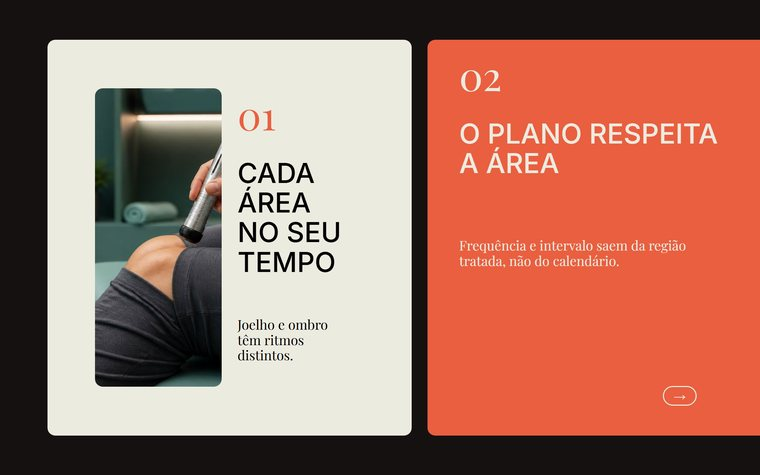
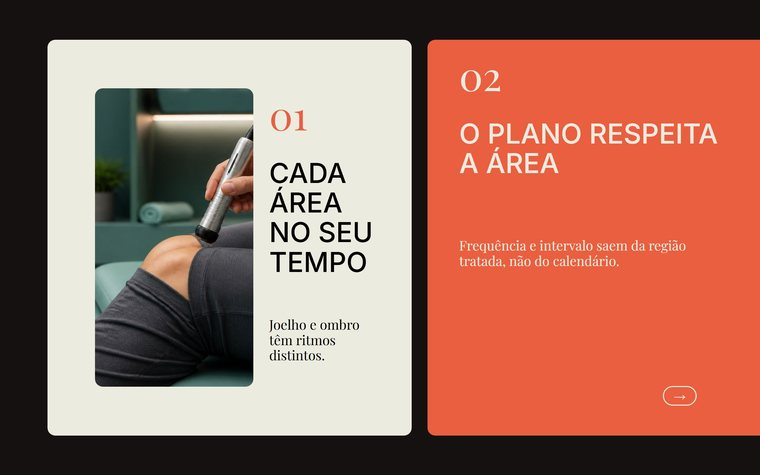
editorial-cards-continuos: piso de 30% de area para foto no cartao
Gustavo notou que as fotos saiam pequenas demais e sugeriu um minimo de
30-40%. Medindo os proprios exemplares do pack: 11%, 18% e 26% de area — o de
foto no topo tinha 15% de ALTURA, a faixa fina que ele viu.

Gate novo com piso de 30%, medido por AREA e nao por altura: assim a regra
serve tanto a foto larga (topo/rodape) quanto a vertical (retrato), que tem
75% de altura mas so 43% de largura.

Ajustar os tres exemplares expos que o cartao e apertado. Calculei o orcamento
em vez de continuar tentando: foto a 30% de area = 433px, sobram 692px, e
numero + headline + apoio + margens custam 666px. Cabe, sem folga — por isso
nas variacoes de foto grande o apoio virou de uma linha so.

data-gap estendido a texto: celulas de grid adjacentes se encostam (uma termina
onde a outra comeca) e o gate de folga acusa. E a margem da foto voltou a 26px:
16px conflitava com os 24px que o gate de borda exige — dois numeros do mesmo
sistema precisam concordar.

Changed region(s): [[0.1211, 0.1768, 0.5145, 0.8253], [0.2118, 0.7958, 0.2421, 0.8253]]

diff --git a/packs/editorial-cards-continuos/exemplos/ref-miolo-cartao-com-foto.html b/packs/editorial-cards-continuos/exemplos/ref-miolo-cartao-com-foto.html
@@ -23,19 +23,17 @@
          serifa fina sobre foto some, e a foto tem raio próprio. -->
     <div class="ds-card" data-el-id="f1" data-half-left data-layer style="grid-area: 2 / 3 / 12 / 14"></div>
     <img class="ds-photo" data-el-id="f1p" data-gap data-half-left data-static data-layer data-round
-         data-image-type="generated" src="foto-detalhe.jpg" style="grid-area: 4 / 4 / 6 / 12">
-    <span class="ds-number" data-el-id="f1n" data-half-left data-static data-layer data-face="serif"
+         data-image-type="generated" src="foto-detalhe.jpg" style="grid-area: 4 / 4 / 9 / 12">
+    <span class="ds-number" data-el-id="f1n" data-gap data-half-left data-static data-layer data-face="serif"
           data-size="lg" data-corner data-inset="top"
           style="grid-area: 2 / 4 / 3 / 8">01</span>
-    <h2 class="ds-headline" data-weight="medium" data-el-id="f1h" data-half-left data-layer data-template-element
+    <h2 class="ds-headline" data-weight="medium" data-el-id="f1h" data-gap data-half-left data-layer data-template-element
         data-te-description="tese do cartão" data-te-min-chars="12" data-te-max-chars="30"
-        style="grid-area: 6 / 4 / 8 / 12">A dose se lê na pele</h2>
-    <p class="ds-body" data-el-id="f1b" data-half-left data-layer data-face="serif"
+        style="grid-area: 9 / 4 / 11 / 12">A dose se lê na pele</h2>
+    <p class="ds-body" data-el-id="f1b" data-gap data-half-left data-layer data-face="serif"
        data-template-element data-te-description="apoio"
        data-te-min-chars="30" data-te-max-chars="110"
-       style="grid-area: 9 / 4 / 11 / 12">O que a área responde na sessão orienta o ajuste da seguinte.</p>
-    <a class="ds-stamp" data-el-id="f1s" data-half-left data-static data-layer data-glyph
-       style="grid-area: 11 / 8 / 12 / 12">&#8594;</a>
+       style="grid-area: 11 / 4 / 12 / 12">A área responde; o ajuste vem daí.</p>
 
     <!-- CARTÃO seguinte, só texto: a variação alterna, não se repete. -->
     <div class="ds-card" data-el-id="f2" data-half-left data-layer data-variable="primary"

diff --git a/packs/editorial-cards-continuos/exemplos/ref-miolo-foto-embaixo.html b/packs/editorial-cards-continuos/exemplos/ref-miolo-foto-embaixo.html
@@ -21,17 +21,17 @@
   <div class="fita-layer" data-split-ok>
     <!-- CARTÃO: número (2), headline (3-5), apoio (6-7), foto fecha (8-12). -->
     <div class="ds-card" data-el-id="b1" data-half-left data-layer style="grid-area: 2 / 3 / 12 / 14"></div>
-    <span class="ds-number" data-el-id="b1n" data-half-left data-static data-layer data-face="serif"
+    <span class="ds-number" data-el-id="b1n" data-gap data-half-left data-static data-layer data-face="serif"
           data-size="lg" data-corner data-inset="top" style="grid-area: 2 / 4 / 3 / 8">01</span>
-    <h2 class="ds-headline" data-weight="medium" data-el-id="b1h" data-half-left data-layer data-template-element
+    <h2 class="ds-headline" data-weight="medium" data-el-id="b1h" data-gap data-half-left data-layer data-template-element
         data-te-description="tese do cartão" data-te-min-chars="12" data-te-max-chars="30"
-        style="grid-area: 4 / 4 / 6 / 12">O resultado aparece no tecido</h2>
-    <p class="ds-body" data-el-id="b1b" data-half-left data-layer data-face="serif"
+        style="grid-area: 4 / 4 / 6 / 12">O tecido mostra</h2>
+    <p class="ds-body" data-el-id="b1b" data-gap data-half-left data-layer data-face="serif"
        data-template-element data-te-description="apoio"
        data-te-min-chars="30" data-te-max-chars="110"
-       style="grid-area: 7 / 4 / 9 / 12">O que muda entre a primeira e a última sessão não é a sensação — é a resposta.</p>
+       style="grid-area: 6 / 4 / 7 / 12">Muda a resposta, não a sensação.</p>
     <img class="ds-photo" data-el-id="b1p" data-gap data-half-left data-static data-layer data-round
-         data-image-type="generated" src="foto-detalhe.jpg" style="grid-area: 9 / 4 / 12 / 12">
+         data-image-type="generated" src="foto-detalhe.jpg" style="grid-area: 7 / 4 / 12 / 12">
 
     <!-- CARTÃO seguinte volta ao registro de texto: variação alterna. -->
     <div class="ds-card" data-el-id="b2" data-half-left data-layer data-variable="primary"

diff --git a/packs/editorial-cards-continuos/exemplos/ref-miolo-foto-retrato.html b/packs/editorial-cards-continuos/exemplos/ref-miolo-foto-retrato.html
@@ -27,16 +27,16 @@
     <!-- CARTÃO: foto à esquerda (col 4-7), texto à direita (col 8-12). -->
     <div class="ds-card" data-el-id="r1" data-half-left data-layer style="grid-area: 2 / 3 / 12 / 14"></div>
     <img class="ds-photo" data-el-id="r1p" data-gap data-half-left data-static data-layer data-round
-         data-image-type="generated" src="asset-vertical.jpg" style="grid-area: 3 / 4 / 11 / 8">
+         data-image-type="generated" src="asset-vertical.jpg" style="grid-area: 3 / 4 / 11 / 9">
     <span class="ds-number" data-el-id="r1n" data-half-left data-static data-layer data-face="serif"
-          data-size="lg" data-inset="top" style="grid-area: 3 / 9 / 4 / 12">01</span>
+          data-size="lg" data-inset="top" style="grid-area: 3 / 10 / 4 / 13">01</span>
     <h2 class="ds-headline" data-weight="medium" data-el-id="r1h" data-half-left data-layer data-template-element
         data-te-description="tese do cartão" data-te-min-chars="10" data-te-max-chars="24"
-        style="grid-area: 5 / 9 / 8 / 12">Cada área no seu tempo</h2>
+        style="grid-area: 5 / 10 / 8 / 13">Cada área no seu tempo</h2>
     <p class="ds-body" data-el-id="r1b" data-half-left data-layer data-face="serif"
        data-template-element data-te-description="apoio"
        data-te-min-chars="24" data-te-max-chars="80"
-       style="grid-area: 9 / 9 / 11 / 12">Joelho e ombro têm ritmos distintos.</p>
+       style="grid-area: 9 / 10 / 11 / 13">Joelho e ombro têm ritmos distintos.</p>
 
     <!-- CARTÃO seguinte volta ao registro de texto. -->
     <div class="ds-card" data-el-id="r2" data-half-left data-layer data-variable="primary"

diff --git a/engine/convert.js b/engine/convert.js
@@ -362,6 +362,28 @@ const rgb2hex = (c) => {
       }
     }
 
+    // FOTO PEQUENA DEMAIS DENTRO DO CARTÃO. Uma imagem que ocupa uma faixa
+    // fina não é foto, é enfeite: não se lê o assunto e o cartão fica com cara
+    // de texto com decoração. O piso é por ÁREA, não por altura, para servir
+    // tanto à foto larga (topo/rodapé) quanto à vertical (retrato).
+    {
+      const cards = [...document.querySelectorAll(".ds-card")].map((c) => c.getBoundingClientRect());
+      const MIN_AREA = 0.30;
+      for (const f of document.querySelectorAll(".ds-photo, .ds-slot")) {
+        const r = f.getBoundingClientRect();
+        const card = cards.find((c) => r.left >= c.left - 60 && r.right <= c.right + 60
+                                    && r.top >= c.top - 60 && r.bottom <= c.bottom + 60);
+        if (!card) continue;   // foto de capa é full-bleed, não vive em cartão
+        const prop = (r.width * r.height) / (card.width * card.height);
+        if (prop < MIN_AREA - 0.01) {
+          rejects.push({ id: f.getAttribute("data-el-id"),
+            reason: `foto ocupa ${Math.round(prop * 100)}% da área do cartão `
+              + `(mínimo ${MIN_AREA * 100}%) — imagem em faixa fina vira enfeite; `
+              + `alargue as linhas ou colunas dela` });
+        }
+      }
+    }
+
     // CARTÕES DE TAMANHOS DIFERENTES na mesma fita. Um cartão que cresce para
     // caber o conteúdo denuncia a montagem: a régua muda de slide para slide e
     // a fita perde o ritmo. O conteúdo é que se ajusta à caixa, não o contrário.

diff --git a/engine/design-system.css b/engine/design-system.css
@@ -218,6 +218,10 @@ img[data-round]  { border-radius: var(--radius); }
    encosta em quem estiver na linha vizinha. A margem dá a folga de leitura sem
    custar uma linha inteira do grid (que é 113px — caro demais para respiro). */
 img[data-gap] { margin: 26px 0; height: calc(100% - 52px); }
+/* mesmo problema no TEXTO: células de grid adjacentes se encostam (uma termina
+   onde a outra começa), e o gate de folga acusa. data-gap num componente de
+   texto dá a margem sem custar uma linha inteira do grid. */
+.ds-headline[data-gap], .ds-body[data-gap], .ds-number[data-gap] { margin: 26px 0; }
 img[data-circle] { border-radius: 50%; }
 /* cutout (professionalPhoto): ancora na base da área, sem crop de moldura */
 img[data-cutout] { object-fit: contain; object-position: bottom center; }

diff --git a/packs/editorial-cards-continuos/tecnicas.md b/packs/editorial-cards-continuos/tecnicas.md
@@ -170,10 +170,32 @@ apoio + pill em 10 linhas).
 texto (@ na capa, site no fechamento), não com imagem. Slot solto na section
 fica atrás dos cartões ou come o gap entre slides.
 
+**Foto ocupa no mínimo 30% da área do cartão** (gate no conversor). Faixa fina
+não é foto, é enfeite: não se lê o assunto e o cartão fica com cara de texto
+com decoração. O piso é por ÁREA, não por altura, para servir tanto à foto
+larga (topo/rodapé) quanto à vertical (retrato).
+
+O orçamento do cartão com foto, medido — cartão 1125px, linha 113px:
+
+| | |
+|---|---|
+| foto a 30% de área × 78% de largura | 433px (≈4 linhas) |
+| sobra para texto | 692px |
+| número + headline (2 linhas) + apoio (2) + margens | 666px |
+
+Ou seja, **cabe, mas sem folga**. Quando a foto cresce, é a copy que encurta —
+o cartão nunca ganha uma linha a mais. Nas variações de foto grande o apoio
+costuma ser de 1 linha só.
+
 **Foto dentro de cartão leva `data-gap`.** A imagem estica até preencher a
 célula do grid, então encosta em quem estiver na linha vizinha. O modificador
 dá 26px de margem vertical — folga de leitura sem gastar uma linha inteira
-(cada linha vale 113px, caro demais para respiro).
+(cada linha vale 113px, caro demais para respiro). O valor é 26 e não menos
+porque o gate de borda exige 24px: os dois números têm que concordar.
+
+`data-gap` também vale para **texto** (`ds-headline`, `ds-body`, `ds-number`):
+células de grid adjacentes se encostam — uma termina exatamente onde a outra
+começa — e o gate de folga acusa.
 
 **Nada encosta na borda do cartão.** Nem texto, nem número, nem seta. O
 conversor rejeita conteúdo com menos de **24px** de folga para qualquer borda

diff --git a/knowledge/design/geral.md b/knowledge/design/geral.md
@@ -328,3 +328,12 @@ menor, copy mais curta, elemento removido —, nunca a caixa.
 
 Corolário: se um registro não cabe na caixa padrão nem cortando conteúdo, ele
 não é uma variação daquele pack.
+
+## Imagem em faixa fina é enfeite, não foto
+
+Uma foto que ocupa uma tira estreita do cartão não deixa ler o assunto: o
+cartão fica com cara de texto com decoração. Piso de 30% da ÁREA do container —
+por área, não por altura, senão a regra serve à foto larga e trai a vertical.
+
+Consequência prática: quando a foto cresce, a copy encurta. A caixa não cresce
+junto (ver a lei acima).
